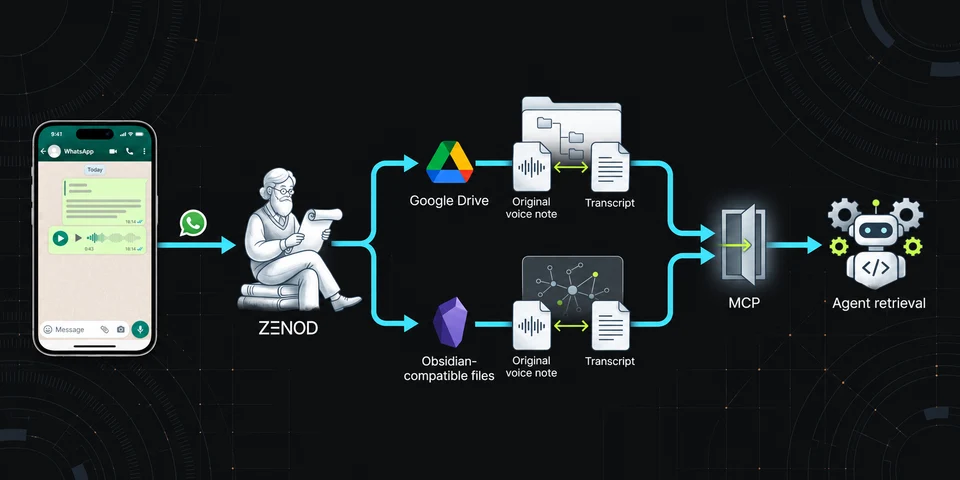
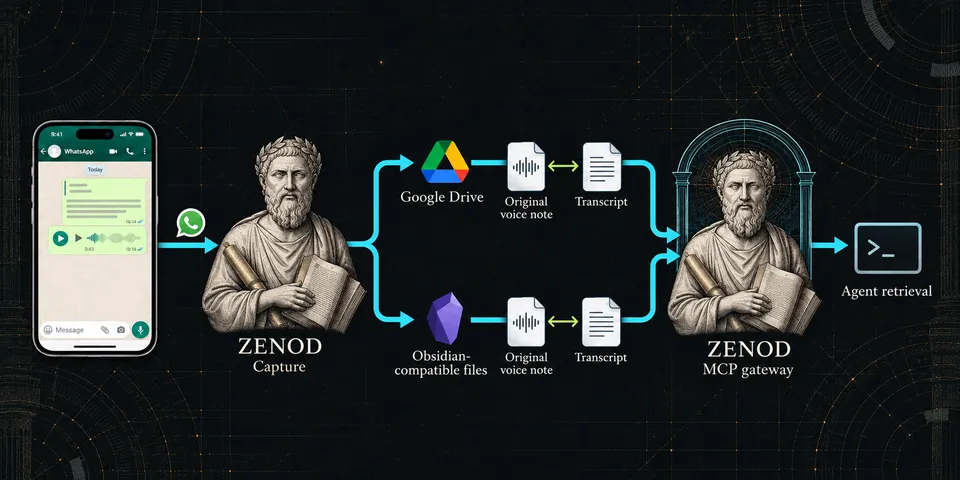
fix(site): match capture and MCP librarians to Hellenic hero

diff --git a/apps/site/src/components/story-sections.tsx b/apps/site/src/components/story-sections.tsx
@@ -72,7 +72,7 @@ export const storyChapters: readonly Chapter[] = [
     lead: "Capture a voice note. Zenod preserves it, organizes it, and makes relevant context available to your connected agents.",
     image: capture,
     small: captureSmall,
-    alt: "A WhatsApp voice note flows from a phone through the librarian to preserved audio, a transcript and connected files. The flow then reaches a connected agent through an MCP doorway. Google Drive and Obsidian-compatible files illustrate storage and reading, respectively.",
+    alt: "A WhatsApp voice note passes through Zenod’s classical Hellenic librarian to preserved audio, transcripts and connected files. Both branches return through the same librarian, shown again as the Zenod MCP gateway, before reaching the agent. Google Drive and Obsidian-compatible files illustrate storage and reading, respectively.",
     captions: [
       [
         "Speak while the thought is fresh.",

diff --git a/docs/evidence/landing-story-integration/capture-revision.md b/docs/evidence/landing-story-integration/capture-revision.md
@@ -1,0 +1,11 @@
+# Capture diagram revision — Hellenic librarian on both sides
+
+Built-in image-generation edit, 2026-09-22. Replaces only chapter 02 artwork and its alt text. Hero unchanged. The same engraved Hellenic librarian now represents Zenod at capture and at the MCP retrieval gateway. Final assets: `apps/site/src/assets/story/02-capture.webp` and `02-capture-small.webp` (1774px/960px, WebP quality 80 to retain the total asset budget).
+
+## Final prompt
+
+Use case: precise-object-edit. Image 1 is the EDIT TARGET, a wide 2:1 Zenod capture-flow diagram. Image 2 is the strict CHARACTER AND ENGRAVING STYLE reference from the website's unchanged hero. Redo the diagram preserving its phone at far left, two central branches with Google Drive and Obsidian-compatible files plus original audio/transcripts, cyan routes, near-black architectural drafting background, and agent endpoint far right. REQUIRED CHANGES: replace the small seated modern cartoon man on the left with a dignified classical Hellenic librarian bust, EXACT mature Greek face, laurel wreath, sculpted curled beard, antique draped robes, adult proportions, fine copperplate cross-hatching and ivory engraving from image 2. NO glasses, sweater, modern clothes, big cute head, toy, cartoon, chibi, plastic or smooth 3D mascot. Also replace the empty MCP doorway on the RIGHT with ANOTHER depiction of THE SAME identical classical librarian bust, framed by a restrained cyan gateway arch with small 'MCP' badge. These are the SAME Zenod service shown at two stages, NOT two different characters. Clearly label BOTH figures 'ZENOD', with small 'Capture' below left and 'MCP gateway' below right. Both central storage branches MUST connect into the RIGHT Zenod librarian gateway before a cyan arrow exits to a compact restrained agent/code symbol at far right labeled 'Agent retrieval'. Use a simple code/terminal glyph instead of the cute robot, so visual style is not toy-like. Ensure balanced generous spacing: phone 0-15%, left librarian 18-32%, records 37-62%, right librarian gateway 68-83%, agent endpoint 88-98%. Keep all diagram-internal text readable: Google Drive; Original voice note; Transcript; Obsidian-compatible files; ZENOD; Capture; MCP gateway; Agent retrieval. No section headings, nav, footer, page paragraphs, CTA buttons. Two identical stately Hellenic engraved figures, one capture gateway and one retrieval gateway, are mandatory. Preserve the full left-to-right flow and the two storage branches. Wide landscape 2:1 composition.
+
+## Verification
+
+17 site tests pass, including unchanged-hero regression checks and the existing total image budget. Production build passes. Browser inspection at `http://127.0.0.1:4319/#journey` confirms both Hellenic figures and the HTML section heading. Local preview only; not deployed.

diff --git a/docs/EPIC-ZENOD-LANDING-STORY.md b/docs/EPIC-ZENOD-LANDING-STORY.md
@@ -20,9 +20,9 @@ Pinned base: 99f9f228285053d1354474b089691d86fe090fef for the 2026-09-22 local i
 
 Owner: /root landing-story integration worker
 Status: testing
-Last attempted: integrated all ten diagram-led chapters below the existing hero on 2026-09-22, following Jordi’s explicit approval of the diagram-centered pattern
+Last attempted: revised chapter 02 on 2026-09-22 at Jordi’s request: the hero-style Hellenic librarian now appears at both capture and MCP retrieval; all ten chapters remain integrated below the unchanged hero
 Result: original hero markup, artwork and existing CSS are unchanged; legacy narrative sections are replaced; section titles/copy/captions/CTAs are HTML, and diagram-only illustrations remain the visual core. Existing pricing, signup gating, sign-in and legal/footer routes are retained.
-Evidence: [local integration handoff](evidence/landing-story-integration/README.md); 17 site tests and production build pass; desktop/mobile chapter walkthroughs and pricing navigation verified
+Evidence: [capture style revision](evidence/landing-story-integration/capture-revision.md); [local integration handoff](evidence/landing-story-integration/README.md); 17 site tests and production build pass; desktop/mobile chapter walkthroughs and pricing navigation verified
 Waiting on: Jordi’s visual review of the integrated landing and a separate exact-SHA production deployment approval
 Approved work: all-section local implementation and verification, explicitly requested in this task; no production deployment, signup change or changed commercial offer
 Next action: review the integrated local landing; adjust only requested presentation details, then request the exact deployment gate if publishing is desired
